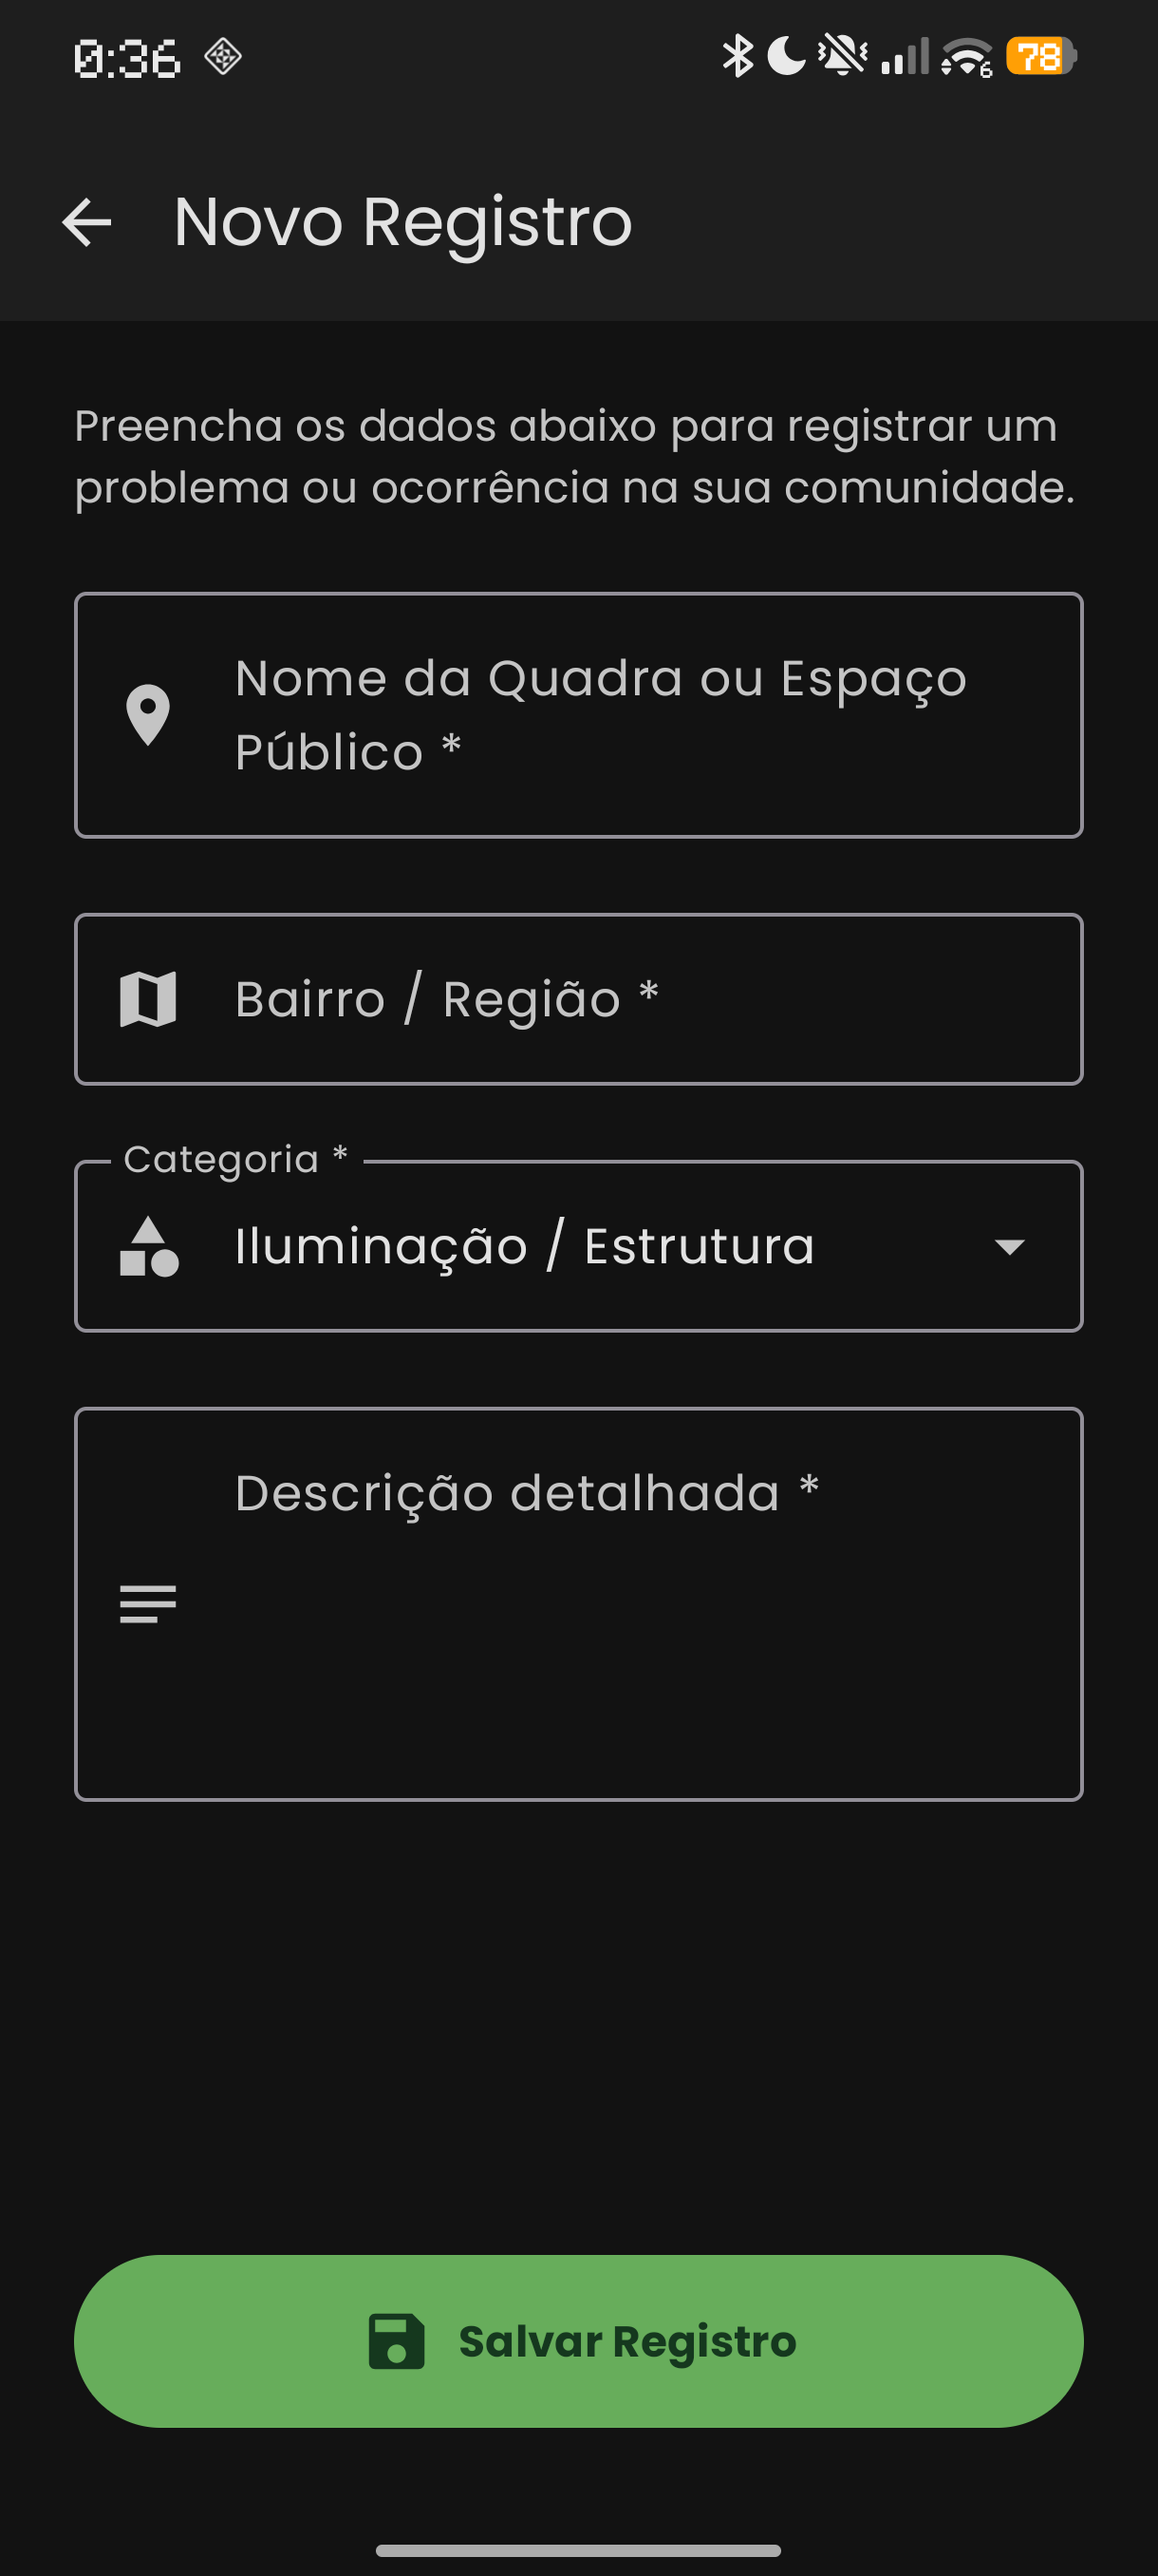
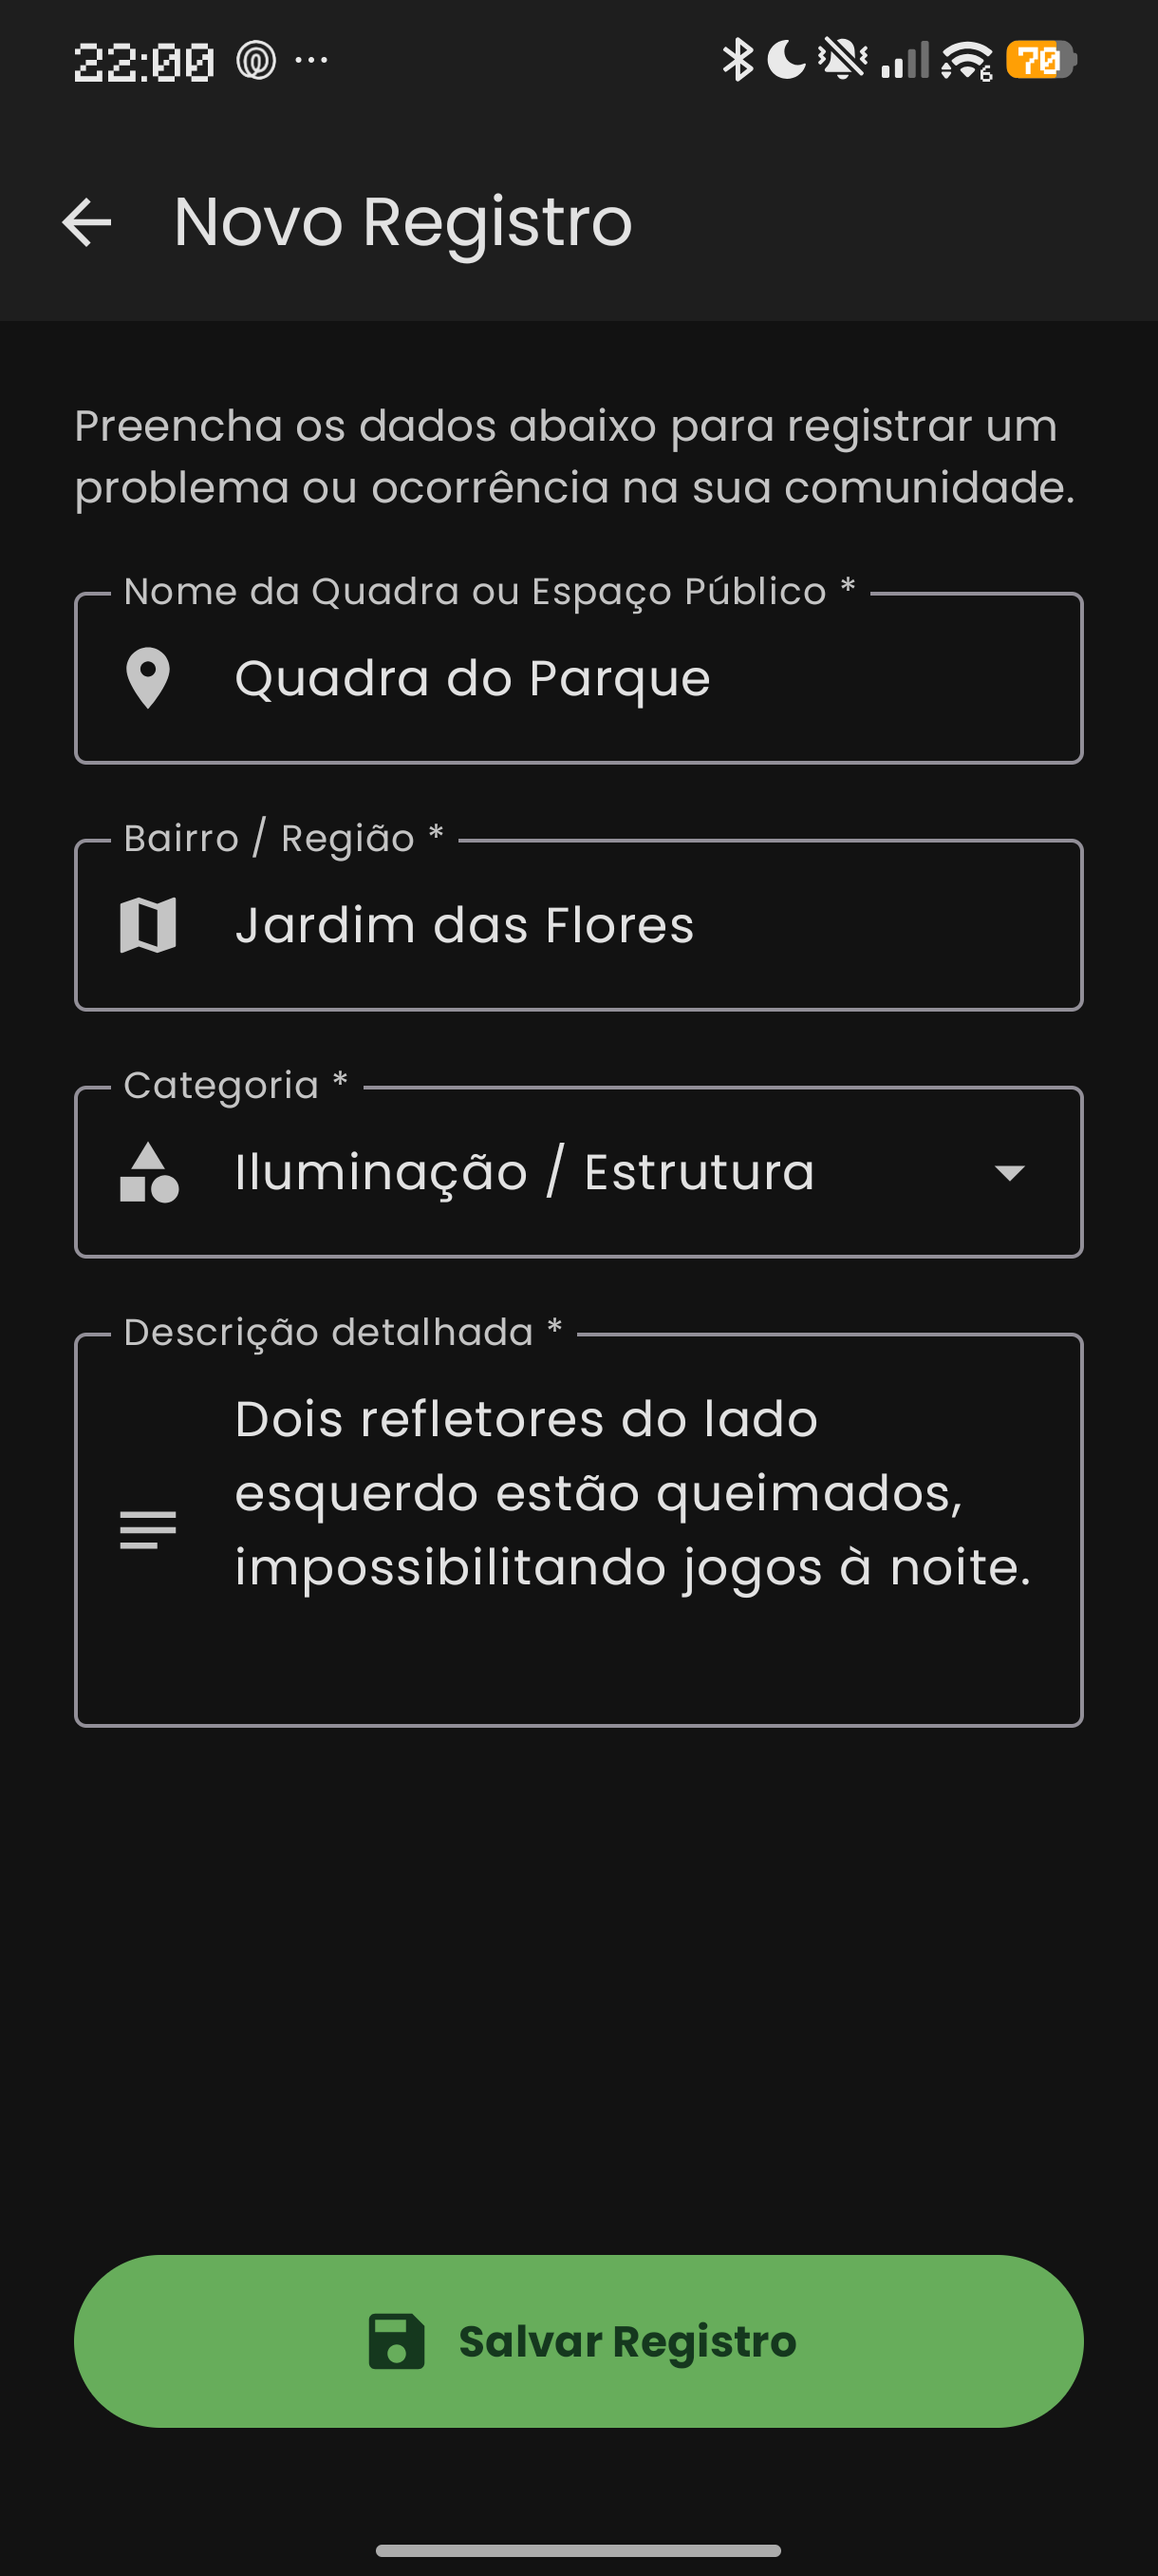
Adicionado valores padrão em DemandFormScreen e atualizado documentação e prints no README

diff --git a/app/src/main/java/mrsmatheusrocha/com/github/arenacidada/ui/DemandFormScreen.kt b/app/src/main/java/mrsmatheusrocha/com/github/arenacidada/ui/DemandFormScreen.kt
@@ -22,11 +22,11 @@ fun DemandFormScreen(
     onSave: (String, String, String, String) -> Unit,
     onBack: () -> Unit
 ) {
-    var courtName by remember { mutableStateOf("") }
-    var neighborhood by remember { mutableStateOf("") }
+    var courtName by remember { mutableStateOf("Quadra do Parque") }
+    var neighborhood by remember { mutableStateOf("Jardim das Flores") }
     var category by remember { mutableStateOf("Iluminação / Estrutura") }
     var expanded by remember { mutableStateOf(false) }
-    var description by remember { mutableStateOf("") }
+    var description by remember { mutableStateOf("Dois refletores do lado esquerdo estão queimados, impossibilitando jogos à noite.") }
     var showError by remember { mutableStateOf(false) }
 
     val categoriesList = listOf(

diff --git a/README.md b/README.md
@@ -58,42 +58,49 @@ O **Arena Cidadã** beneficia diretamente **moradores locais, atletas amadores d
 
 ## Como Funciona o App (Manual de Uso e Demonstração)
 
-Abaixo estão detalhados os principais fluxos de uso do **Arena Cidadã**, ilustrados com as capturas de tela do aplicativo em funcionamento.
+Abaixo estão detalhados os principais fluxos de uso do **Arena Cidadã**, guiando o usuário passo a passo. O sistema foi desenvolvido para ser extremamente intuitivo e garantir que nenhum dado seja perdido, graças à persistência com o Room Database.
 
-### 1. Acesso Inicial e Dashboard
-Ao abrir o app, o usuário é recebido pela **Tela de Boas-vindas**, que centraliza a navegação em dois grandes módulos: **Acompanhar Demandas** (focado na infraestrutura das quadras) e **Gestão de Colaboradores** (focado na mão de obra).
-Acessando o painel de demandas, o usuário visualiza o **Dashboard principal**, onde constam cards informativos com o número exato de solicitações totais e solicitações já resolvidas na comunidade, lidas em tempo real do banco de dados local.
+### 1. Início e Dashboard de Demandas
 
-![Start e Home](docs/print_home.png)
+Assim que o aplicativo é iniciado e carrega os dados salvos localmente (evidência de persistência), o usuário se depara com a **Tela de Boas-vindas (`StartScreen`)**. Nela, há duas opções principais:
 
-### 2. Cadastro de Ocorrências (Quadras)
-Ao tocar em "Registrar Nova Ocorrência", o app exibe um formulário padronizado. Para evitar dados inconsistentes, o formulário conta com:
-- **Ícones semânticos** em todos os campos.
-- **Menu Dropdown** (lista suspensa) limitando a Categoria a opções válidas (ex: Iluminação, Alambrado, Limpeza).
-- **Validação de preenchimento:** O app emite um aviso vermelho caso o usuário tente salvar a demanda com campos obrigatórios em branco.
+*   **Acompanhar Demandas:** Para gerenciar e registrar problemas nas quadras.
+*   **Gestão de Colaboradores:** Para registrar equipes e alocá-las aos serviços.
 
-![Cadastro de Demanda](docs/print_form.png)
+Ao tocar em **Acompanhar Demandas**, o usuário visualiza o **Dashboard principal**. Nele, estão os indicadores com estatísticas em tempo real, informando o total de chamados abertos pela comunidade e quantos já foram atendidos. 
 
-### 3. Listagem Inteligente e Atualização de Status
-Todas as ocorrências registradas vão para a tela de **Demandas das Quadras**.
-- **Empty State:** Se não houver registros, o app exibe uma ilustração convidativa.
-- **Chips Coloridos:** Na listagem, as demandas pendentes são marcadas em **Laranja**, enquanto as já resolvidas ficam destacadas em **Verde**, facilitando a triagem visual.
-- **Gestão Ágil:** O usuário pode alternar o status do chamado ("Concluir" ou "Reabrir") ou excluir a demanda permanentemente usando os botões inferiores no próprio card.
+<img src="docs/print_persisted.png" width="220" /> &nbsp; &nbsp; <img src="docs/print_home.png" width="220" />
 
-![Listagem e Status](docs/print_list_status.png)
+### 2. Registrar Ocorrência e Listagem
+
+Na tela de Dashboard, se o usuário quiser reportar um novo problema, ele clica em **"Registrar Nova Ocorrência"**. 
+*   O app exibe um formulário validado, impedindo o envio de informações incompletas. 
+*   Ele conta com um **Menu Dropdown** para categorias, evitando erros de digitação.
+
+Ao salvar e voltar ao menu, clicando em **"Acompanhar Quadras e Demandas"**, o usuário cai na tela de Listagem.
+*   As demandas aparecem em cartões bem estruturados.
+*   O status visual é claro: **Laranja** para Pendente, **Verde** para Resolvido.
+
+<img src="docs/print_form.png" width="220" /> &nbsp; &nbsp; <img src="docs/print_list_status.png" width="220" />
    
-### 4. Módulo de Colaboradores e Alocação de Pessoal
-Este módulo resolve o desafio de direcionar mão de obra para os chamados:
-- Pelo botão flutuante, o usuário cadastra o **Nome, Cargo e Telefone** de voluntários ou trabalhadores da zeladoria.
-- A tela principal deste módulo **filtra automaticamente** e exibe apenas as demandas das quadras que estão **Pendentes**.
-- Ao clicar em **"Alocar Colaborador"**, um *Dialog* aparece listando as pessoas cadastradas. O usuário escolhe um responsável por meio do *radio button*, e a demanda é instantaneamente atualizada com o nome de quem irá realizar o serviço.
+### 3. Gestão e Alocação de Colaboradores
 
-![Gestão de Colaboradores](docs/print_colaboradores.png)
+Retornando à tela inicial de boas-vindas e entrando em **"Gestão de Colaboradores"**:
+*   O usuário pode cadastrar um novo trabalhador/voluntário (nome, especialidade, telefone) usando o botão flutuante, que exibe um alerta de sucesso ao concluir.
+*   A tela principal de gestão automaticamente filtra as demandas das quadras que **estão pendentes**.
+*   Clicando no botão **"Alocar Colaborador"** em uma demanda, o app abre um diálogo de seleção com a lista de colaboradores recém-cadastrados.
+*   Ao selecionar o colaborador e confirmar, a demanda fica amarrada àquele profissional, e essa informação (ex: *"Alocado para: João"*) aparecerá em destaque na lista para facilitar o acompanhamento.
 
-### 5. Banco de Dados Local (Persistência com Room)
-Graças à arquitetura robusta com **Room Database, Coroutines e ViewModel**, o aplicativo não perde nenhuma informação. Todas as quadras inseridas, colaborações alocadas e exclusões são salvas permanentemente no aparelho.
+<img src="docs/print_colaborador_form.png" width="220" /> &nbsp; &nbsp; <img src="docs/print_colaboradores_alocar.png" width="220" />
 
-![Persistência Room](docs/print_persisted.png)
+### 4. Resolução da Demanda
+
+De volta à lista de demandas (pela primeira opção da tela inicial), o usuário visualiza o status final atualizado e pode concluir a gestão do chamado.
+*   Após o colaborador terminar o serviço, basta clicar em **"Concluir"**. A demanda fica verde e a contagem no dashboard principal é atualizada em tempo real.
+*   Quando resolvida, a demanda some da fila de ocorrências pendentes na tela de Gestão de Colaboradores.
+*   É possível reabrir a demanda caso o problema retorne, ou excluí-la de forma definitiva usando o ícone da lixeira (apagando do Room DB de vez).
+
+<img src="docs/print_list_resolved.png" width="220" /> &nbsp; &nbsp; <img src="docs/print_colaboradores_empty.png" width="220" />
 
 ---
 
